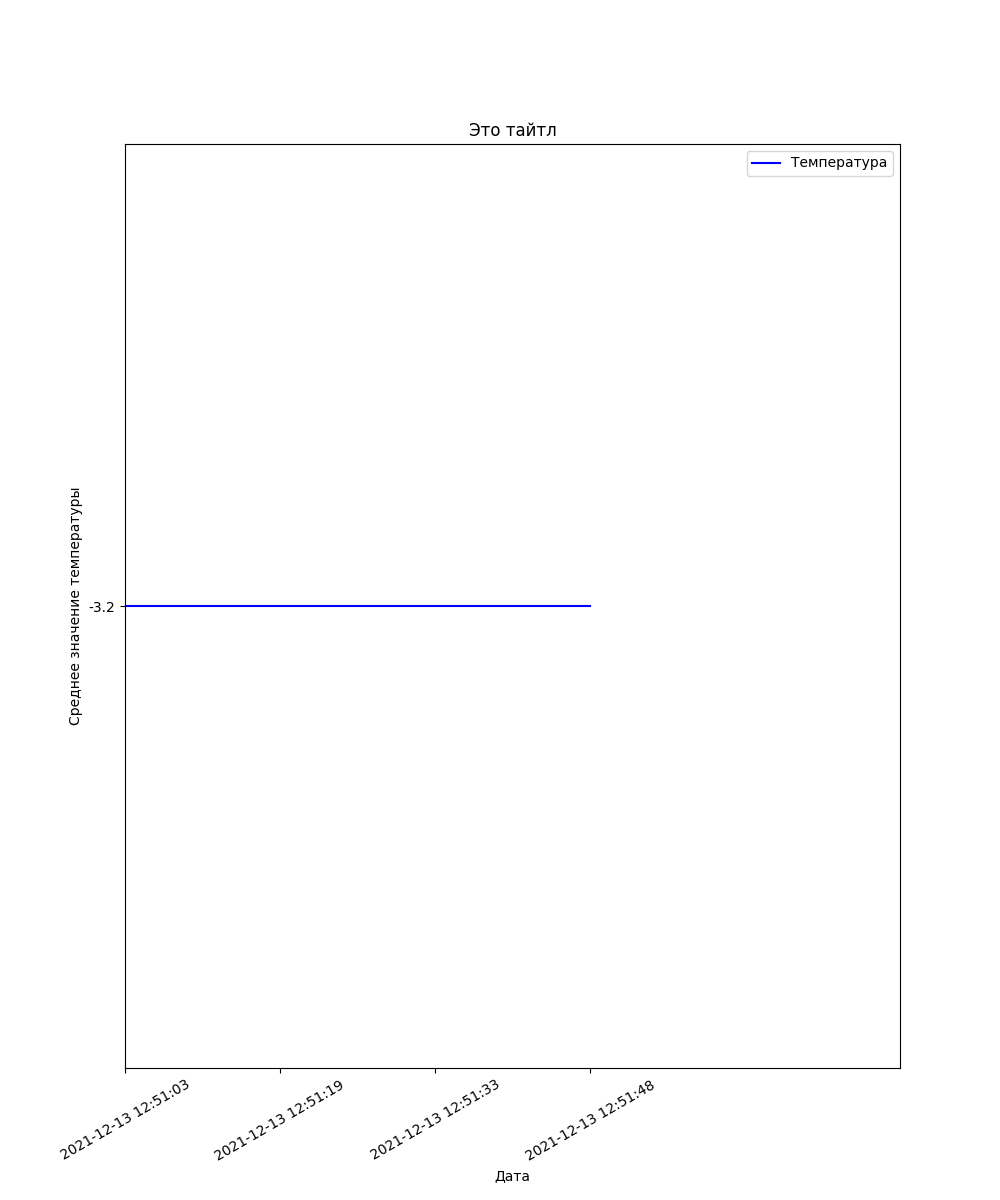
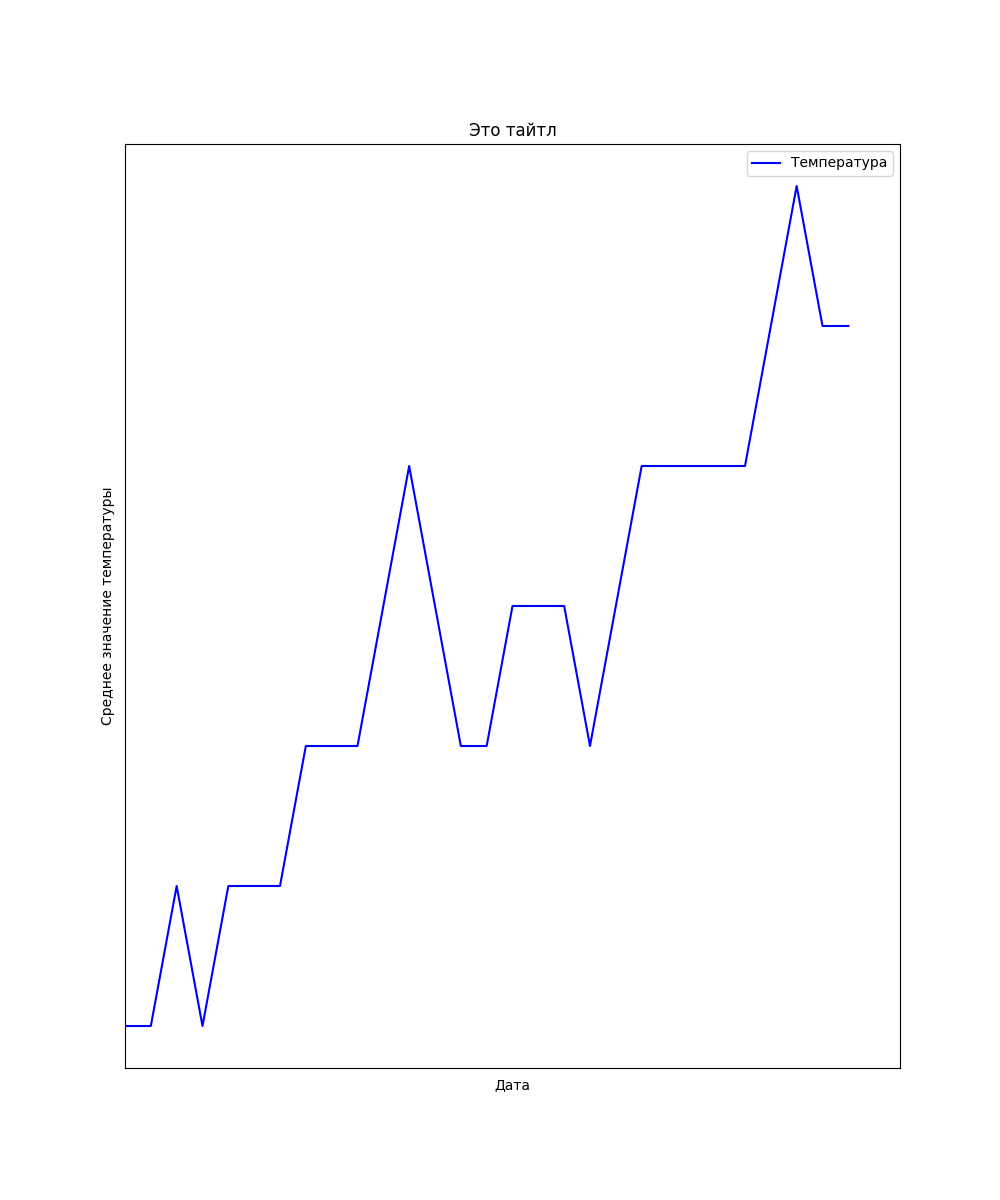
graph and info added

diff --git a/weather_project/meteo_app/templates/meteo_app/wind_graph.html b/weather_project/meteo_app/templates/meteo_app/wind_graph.html
@@ -5,7 +5,10 @@
 {% block content %}
 <div class="container">
     <div class=col-12">
-        <form class="row g-3" action="{% url 'meteo-data-graph' %}" method="get">
+        <form class="row g-3" action="{% url 'wind-data-graph' %}" method="get">
+            <br>
+            <div id="dateInlineHelp" class="form-text">Введите дату в формате "ГГГГ-ММ-ДД". Для поиска по времени введите дату и время в формате "ГГГГ-ММ-ДД ЧЧ:ММ"</div>
+            <div id="paramInlineHelp" class="form-text">Введите параметр из таблицы</div>
             <div class="col-auto">
               <input type="text" class="form-control" placeholder="Дата с:"name="date_from">
             </div>
@@ -14,18 +17,44 @@
             </div>
             <div class="col-auto">
                 <input type="text" class="form-control" placeholder="Параметр" name="param" aria-describedby="paramInlineHelp">
+            </div>
+            <div class="col-auto">
+              <div class="form-check">
+                <input class="form-check-input" type="checkbox" value="1" name="seconds" id="flexCheckChecked" unchecked>
+                <label class="form-check-label" for="flexCheckChecked">
+                  Отобразить посекундно
+                </label>
               </div>
+            </div>
             <div class="col-auto">
               <button type="submit" class="btn btn-outline-secondary mb-3">Построить график</button>
             </div>
-            <div id="dateInlineHelp" class="form-text">Введите дату в формате "ГГГГ-ММ-ДД". Для поиска по времени введите дату и время в формате "ГГГГ-ММ-ДД ЧЧ:ММ"</div>
-            <div id="paramInlineHelp" class="form-text">Введите параметр из таблицы</div>
+            <div id="windInlineHelp" class="form-text col-auto text-nowrap bg-light border" style="width: 33rem;">
+                <div>Вы можете построить графики по следующим параметрам:</div>
+                <div>WS1AVG - скорость ветра (м/с)  за 3 сек</div>
+                <div>WD1AVG - направление ветра (град) за 3 сек</div>
+                <div>WS1MIN2 - скорость ветра (м/с) минимальное значение за 2 минуты</div>
+                <div>WS1AVG2 - скорость ветра (м/с) среднее значение за 2 минуты</div>
+                <div>WS1MAX2 - скорость ветра (м/с) максимальное значение за 2 минуты</div>
+                <div>WD1MIN2 - направление ветра (град) минимальное значение за 2 минуты</div>
+                <div>WD1AVG2 - направление ветра (град) среднее значение за 2 минуты</div>
+                <div>WD1MAX2 - направление ветра (град) максимальное значение за 2 минуты</div>
+                <div>WS1MIN10 - скорость ветра (м/с) минимальное значение за 10 минут</div>
+                <div>WS1AVG10 - скорость ветра (м/с) среднее значение за 10 минут</div>
+                <div>WS1MAX10 - скорость ветра (м/с) максимальное значение за 2 минуты</div>
+                <div>WD1MIN10 - направление ветра (град) минимальное значение за 10 минут</div>
+                <div>WD1AVG10 - направление ветра (град) среднее значение за 10 минут</div>
+                <div>WD1MAX10 - направление ветра (град) максимальное значение за 10 минут</div>
+            </div>
         </form>
         <br>
         <p>
             <a class="btn btn-outline-secondary" href="{% url 'wind-data' %}"role="button">Вернуться </a>
         </p>
-        <img src="{% static 'media/1.jpeg' %}" alt="my_image">
+        {% if graph %}
+          {% load static %}
+          <img src="{% static 'meteo_app/graph.png' %}" alt="my_image" />
+        {% endif %}
     </div>
 </div>
 {% endblock %}

diff --git a/weather_project/meteo_app/templates/meteo_app/meteo_graph.html b/weather_project/meteo_app/templates/meteo_app/meteo_graph.html
@@ -6,6 +6,9 @@
 <div class="container">
     <div class="col-12">
         <form class="row g-3" action="{% url 'meteo-data-graph' %}" method="get">
+            <br>
+            <div id="dateInlineHelp" class="form-text">Введите дату в формате "ГГГГ-ММ-ДД". Для поиска по времени введите дату и время в формате "ГГГГ-ММ-ДД ЧЧ:ММ"</div>
+            <div id="paramInlineHelp" class="form-text">Введите параметр из таблицы</div>
             <div class="col-auto">
               <input type="text" class="form-control" placeholder="Дата с:"name="date_from">
             </div>
@@ -26,8 +29,25 @@
             <div class="col-auto">
               <button type="submit" class="btn btn-outline-secondary mb-3">Построить график</button>
             </div>
-            <div id="dateInlineHelp" class="form-text">Введите дату в формате "ГГГГ-ММ-ДД". Для поиска по времени введите дату и время в формате "ГГГГ-ММ-ДД ЧЧ:ММ"</div>
-            <div id="paramInlineHelp" class="form-text">Введите параметр из таблицы</div>
+            <div id="meteoInlineHelp" class="form-text col-auto text-nowrap bg-light border" style="width: 55rem;">
+                <div>Вы можете построить графики по следующим параметрам:</div>
+                <div>TA - среднее значение температуры за 1 минуту  (°C)</div>
+                <div>DP - точка росы  (°C)</div>
+                <div>WC - охлаждение ветром (°C)</div>
+                <div>RH - относительная влажность (%)</div>
+                <div>PA - атмосферное давление (mm Hg)</div>
+                <div>PR - Количество жидких осадков мгновенное значение (мм)</div>
+                <div>PR1H - Количество жидких осадков сумма за 1 час (мм)</div>
+                <div>PR24h - Количество жидких осадков сумма за сутки (мм)</div>
+                <div>SR_1M - Данные от CMP6 установленного параллельно относительно поверхности земли (Вт/м²) среднее значение за 1 минуту</div>
+                <div>SR_1D - Данные от CMP6 установленного параллельно относительно поверхности земли (Вт/м²) среднее значение за 24 часа</div>
+                <div>SR_45_1M - Данные от CMP6 установленного 45 градусов относительно поверхности земли (Вт/м²) среднее значение за 1 минуту</div>
+                <div>SR_45_1D - Данные от CMP6 установленного 45 градусов относительно поверхности земли (Вт/м²) среднее значение за 24 часа</div>
+                <div>SD_1H - Данные от CMP6 установленного 45 градусов относительно поверхности земли (Вт/м²) суммарное значение за 1 час</div>
+                <div>SD_1D - Данные от CMP6 установленного 45 градусов относительно поверхности земли (Вт/м²) суммарное значение за 24 часа</div>
+                <div>SD_45_1H - Данные от CMP6 установленного 45 градусов относительно поверхности земли (Вт/м²) суммарное значение за 1 час</div>
+                <div>SD_45_1D - Данные от CMP6 установленного 45 градусов относительно поверхности земли (Вт/м²) суммарное значение за 24 часа</div>
+            </div>
         </form>
         <br>
         <p>

diff --git a/weather_project/meteo_app/templates/meteo_app/invertor_graph.html b/weather_project/meteo_app/templates/meteo_app/invertor_graph.html
@@ -5,7 +5,10 @@
 {% block content %}
 <div class="container">
     <div class="col-12">
-        <form class="row g-3" action="{% url 'meteo-data-graph' %}" method="get">
+        <form class="row g-3" action="{% url 'invertor-data-graph' %}" method="get">
+            <br>
+            <div id="dateInlineHelp" class="form-text">Введите дату в формате "ГГГГ-ММ-ДД". Для поиска по времени введите дату и время в формате "ГГГГ-ММ-ДД ЧЧ:ММ"</div>
+            <div id="paramInlineHelp" class="form-text">Введите параметр из таблицы</div>
             <div class="col-auto">
               <input type="text" class="form-control" placeholder="Дата с:"name="date_from">
             </div>
@@ -14,18 +17,42 @@
             </div>
             <div class="col-auto">
                 <input type="text" class="form-control" placeholder="Параметр" name="param" aria-describedby="paramInlineHelp">
+            </div>
+            <div class="col-auto">
+              <div class="form-check">
+                <input class="form-check-input" type="checkbox" value="1" name="seconds" id="flexCheckChecked" unchecked>
+                <label class="form-check-label" for="flexCheckChecked">
+                  Отобразить посекундно
+                </label>
               </div>
+            </div>
             <div class="col-auto">
               <button type="submit" class="btn btn-outline-secondary mb-3">Построить график</button>
             </div>
-            <div id="dateInlineHelp" class="form-text">Введите дату в формате "ГГГГ-ММ-ДД". Для поиска по времени введите дату и время в формате "ГГГГ-ММ-ДД ЧЧ:ММ"</div>
-            <div id="paramInlineHelp" class="form-text">Введите параметр из таблицы</div>
+            <div id="windInlineHelp" class="form-text col-auto text-nowrap bg-light border" style="width: 26rem;">
+                <div>Вы можете построить графики по следующим параметрам:</div>
+                <div>pv1_input_power - Входная мощность pv1 (Вт) за 1 сек</div>
+                <div>pv1_voltage - Напряжение pv1 (В) за 1 сек</div>
+                <div>pv1_current - Ток pv1 (А) за 1 сек</div>
+                <div>pv2_input_power - Входная мощность pv2 (Вт) за 1 сек</div>
+                <div>pv2_voltage - Напряжение pv2 (В) за 1 сек</div>
+                <div>pv2_current - Ток pv2 (А) за 1 сек</div>
+                <div>grid_voltage - Напряжение сети (В) за 1 сек</div>
+                <div>grid_current - Ток сети (А) за 1 сек</div>
+                <div>grid_frequency - Частота сети (Гц) за 1 сек</div>
+                <div>output_power - Выходная мощность (Вт) за 1 сек</div>
+                <div>energy_today - Энергия сегодня (кВт*ч) за 1 сек</div>
+                <div>energy_total - Общая энергия (кВт*ч) за 1 сек</div>
+            </div>
         </form>
         <br>
         <p>
             <a class="btn btn-outline-secondary" href="{% url 'invertor-data' %}"role="button">Вернуться </a>
         </p>
-        <img src="{% static 'media/1.jpeg' %}" alt="my_image">
+        {% if graph %}
+          {% load static %}
+          <img src="{% static 'meteo_app/graph.png' %}" alt="my_image" />
+        {% endif %}
     </div>
 </div>
 {% endblock %}

diff --git a/weather_project/meteo_app/templates/meteo_app/auth.html b/weather_project/meteo_app/templates/meteo_app/auth.html
@@ -36,7 +36,7 @@
                             </div>
                                 <button type="submit" class="btn btn-outline-primary">Войти</button>
                                 <a class="btn btn-outline-secondary" href="{% url 'reg-page' %}"role="button">Регистрация</a>
-                            </form>
+                        </form>
                     </form>
                 </div>
             </div>
@@ -51,13 +51,13 @@
                 </div>
             </div>
         </div>
-    <div class="container navbar-fixed-bottom ">
-    <div class="navbar-inner">
-        <footer class=" modal-footer col-12 bg-white">
-                <p style="font-size: 0.7rem">Красавина Дарья</p><br>
-                <p style="font-size: 0.7rem">2022</p>
-        </footer>
-    </div>
-</div>
+        <div class="container navbar-fixed-bottom">
+            <div class="navbar-inner">
+                <footer class=" modal-footer col-12 bg-white">
+                        <p style="font-size: 0.7rem">Красавина Дарья</p><br>
+                        <p style="font-size: 0.7rem">2022</p>
+                </footer>
+            </div>
+        </div>
     </body>
 </html>

diff --git a/weather_project/meteo_app/templates/meteo_app/invertor.html b/weather_project/meteo_app/templates/meteo_app/invertor.html
@@ -43,7 +43,7 @@
                             {% endif %}
                     </ul>
                   </nav>
-                <table class="table table-hover table-bordered table-condensed">
+                <table class="table table-hover table-success table-bordered table-condensed">
                     <tbody>
                       <tr>
                         <th scope="col">id</th>

diff --git a/weather_project/meteo_app/templates/meteo_app/meteo.html b/weather_project/meteo_app/templates/meteo_app/meteo.html
@@ -43,7 +43,7 @@
                             {% endif %}
                     </ul>
                 </nav>
-                <table class="table table-hover table-bordered">
+                <table class="table table-hover table-success table-bordered">
                     <tbody>
                       <tr>
                         <th scope="col">id</th>

diff --git a/weather_project/meteo_app/templates/meteo_app/wind.html b/weather_project/meteo_app/templates/meteo_app/wind.html
@@ -43,7 +43,7 @@
                             {% endif %}
                      </ul>
                 </nav>
-              <table class="table table-hover table-bordered">
+              <table class="table table-hover table-success table-bordered">
                   <tbody>
                     <tr>
                       <th scope="col">id</th>

diff --git a/weather_project/meteo_app/views.py b/weather_project/meteo_app/views.py
@@ -295,7 +295,7 @@ def create_meteo_graph(request):
 def create_wind_graph(request):
     if request.user.is_authenticated:
         dataset = None
-        gr = True
+        gr = False
         message = None
         if "date_from" in request.GET and "date_to" in request.GET:
             try:
@@ -303,9 +303,11 @@ def create_wind_graph(request):
                     start = request.GET["date_from"]
                     end = request.GET["date_to"]
                     param = request.GET["param"]
+                    seconds = 1 if 'seconds' in request.GET.keys() else 0
+
                     dataset = WindData.objects.filter(date__range=(start, end))
-                    # gr = plot_graphic(
-                    #     queryset=dataset, range=10, param=param)
+                    gr = plot_graphic(
+                        queryset=dataset, range=1, param=param, seconds=seconds)
 
             except ValidationError:
                 message = "Данные введены неправильно"
@@ -324,7 +326,7 @@ def create_wind_graph(request):
 def create_invertor_graph(request):
     if request.user.is_authenticated:
         dataset = None
-        gr = True
+        gr = False
         message = None
         if "date_from" in request.GET and "date_to" in request.GET:
             try:
@@ -332,9 +334,11 @@ def create_invertor_graph(request):
                     start = request.GET["date_from"]
                     end = request.GET["date_to"]
                     param = request.GET["param"]
+                    seconds = 1 if 'seconds' in request.GET.keys() else 0
+
                     dataset = Invertor.objects.filter(date__range=(start, end))
-                    # gr = plot_graphic(
-                    #     queryset=dataset, range=10, param=param)
+                    gr = plot_graphic(
+                        queryset=dataset, range=1, param=param, seconds=seconds)
 
             except ValidationError:
                 message = "Данные введены неправильно"

diff --git a/weather_project/meteo_app/graph.py b/weather_project/meteo_app/graph.py
@@ -1,6 +1,6 @@
 import matplotlib
 import matplotlib.pyplot as plt
-from meteo_app.models import MeteoData
+from meteo_app.models import MeteoData, WindData, Invertor
 
 def plot_graphic(queryset=None, range=1, param=None, seconds=False):
     if queryset:
@@ -23,8 +23,7 @@ def plot_graphic(queryset=None, range=1, param=None, seconds=False):
             for ax, ay in xy.items():
                 x.append(ax)
                 y.append(ay)
-            
-                
+
             
         matplotlib.use('Agg')
         fig = plt.figure()
@@ -55,3 +54,4 @@ def plot_graphic(queryset=None, range=1, param=None, seconds=False):
         return True
     else:
         return False
+
